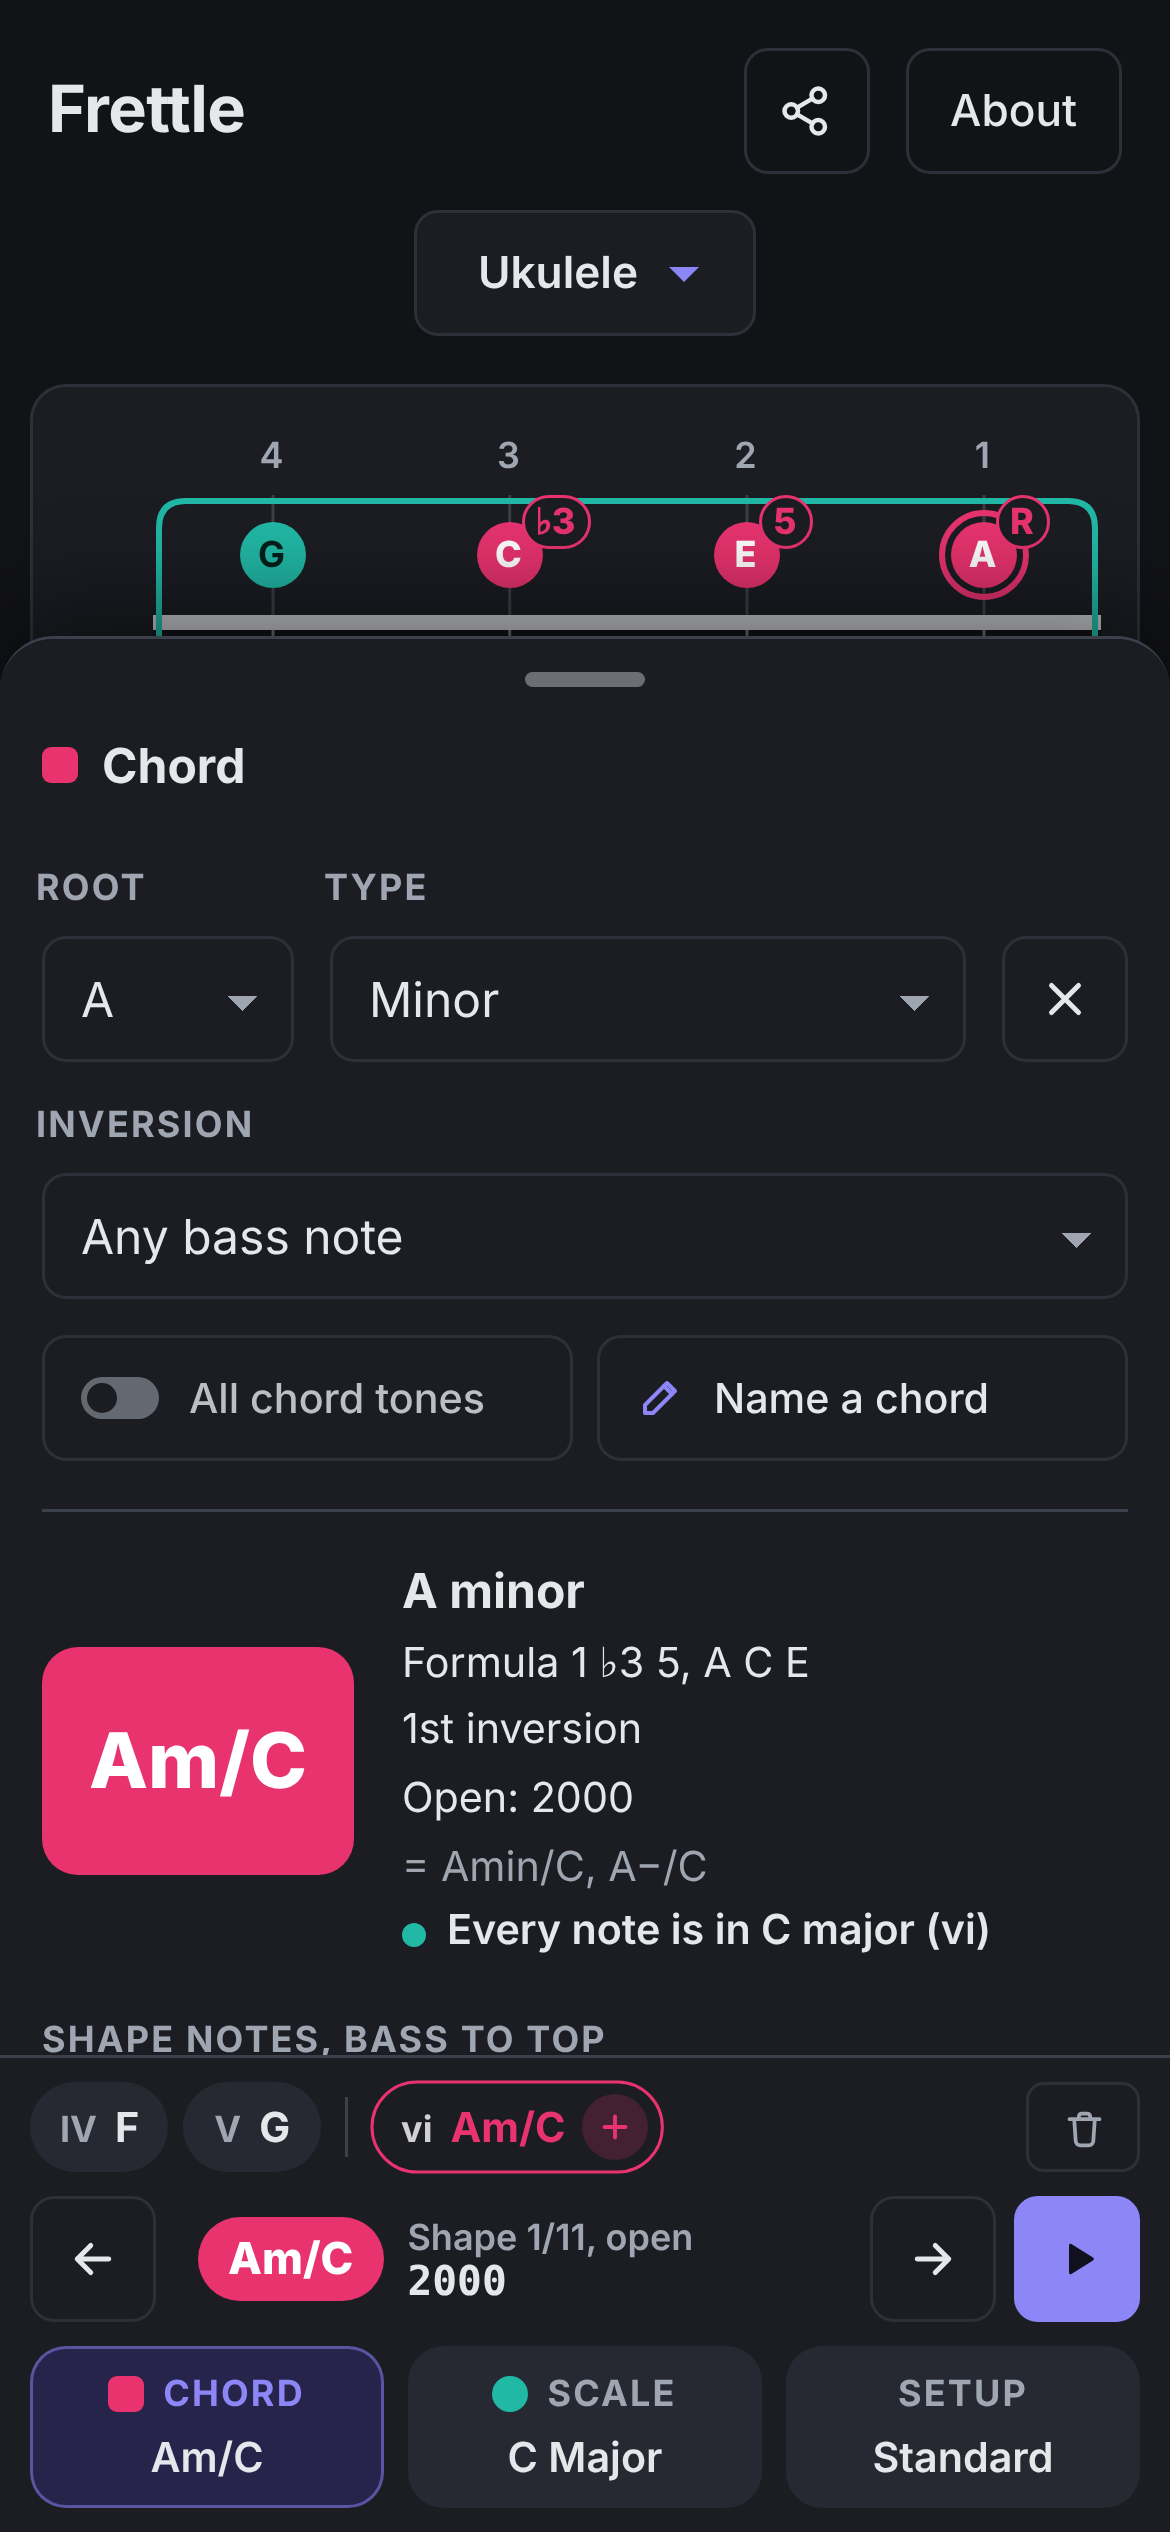
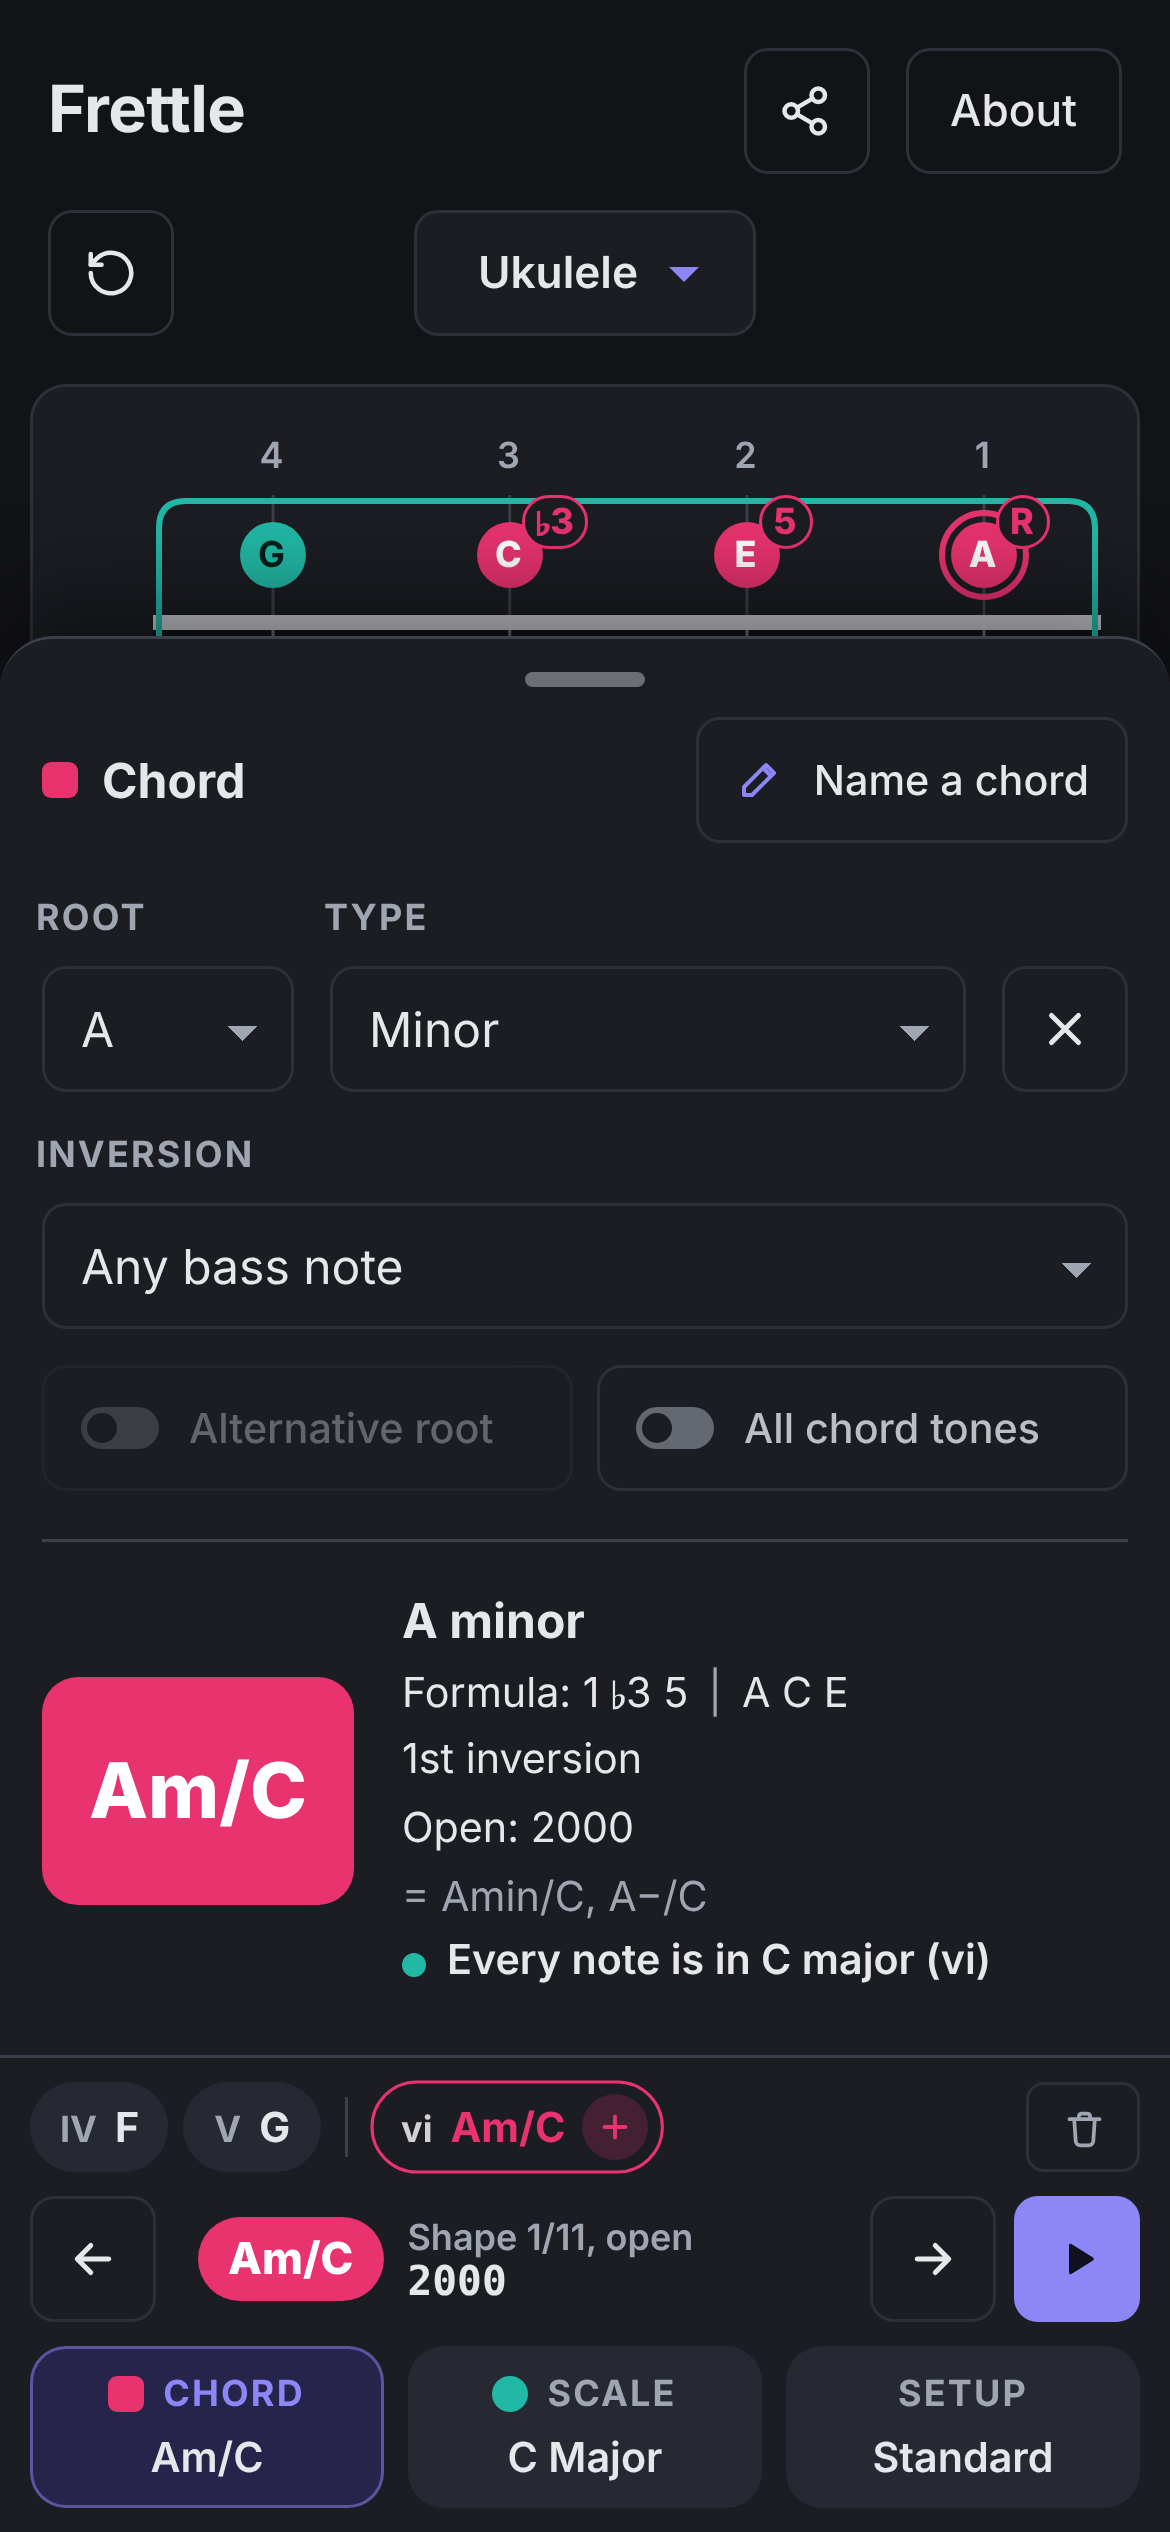
feat: name a chord next to sheet title on mobile

diff --git a/web/script.js b/web/script.js
@@ -4315,13 +4315,15 @@ function placeSettings() {
   if (els.instrumentPicker.parentElement !== instSlot) instSlot.appendChild(els.instrumentPicker);
   if (els.resetAll.parentElement !== instSlot) instSlot.appendChild(els.resetAll);   // (beside it: after it on wide screens, on the left on phones, see .reset-btn)
   // Chord and scale switches: at the end of the panel's title row on wide screens,
-  // under the menus on phones. Play the scale: before Deselect on wide
+  // under the menus on phones (Name a chord there at the end of the title
+  // row, a button, not a switch). Play the scale: before Deselect on wide
   // screens (as Strum is for chords), on the Notes line on phones.
   const put = (el, parent, before = null) => { if (el.parentElement !== parent || el.nextElementSibling !== before) parent.insertBefore(el, before); };
   // The phone dock's chord list and shape bar: in the quick bar under the
   // neck on wide screens, before the groups' bar (which only exists there)
   if (wide) {
     put(els.chordSwitches, els.chordHead);
+    put(els.namerOpen, els.chordSwitches);
     put(els.scaleSwitches, els.scaleHead);
     put(els.scalePlay, els.scaleBar, els.scaleClear);
     put(els.dockRecent, els.quickInner, els.quickGroupBar);
@@ -4329,6 +4331,8 @@ function placeSettings() {
     put(els.namer, els.neckPanel);   // Name a chord: in the quick bar's place
   } else {
     put(els.chordSwitches, els.chordBar, els.chordStrum);
+    put(els.namerOpen, els.chordHead);
+    els.namerOpen.classList.remove('whole');   // (out of the switches' grid, see fitSwitches)
     put(els.scaleSwitches, els.scaleBar, els.scaleClear);
     put(els.scalePlay, els.notesLine);
     put(els.dockRecent, els.dockBar, els.dockTabs);

diff --git a/web/styles.css b/web/styles.css
@@ -522,11 +522,11 @@ body.naming .reset-btn { display: none; }   /* (not while naming a chord) */
 .scale-bar .field.scale-type { order: 2; }
 .scale-bar .deselect { order: 3; }
 .switch-row { order: 4; flex: 1 0 100%; display: grid; grid-template-columns: 1fr 1fr; gap: var(--sp-2); }
-.chord-bar .switch-row { grid-template-columns: 1fr 1fr; }   /* phones: All chord tones and Name a chord, side by side */
+.chord-bar .switch-row { grid-template-columns: 1fr 1fr; }   /* phones: Alternative root and All chord tones, side by side (Name a chord: on the title row) */
 @media (max-width: 359px) { .chord-bar .switch-row { grid-template-columns: 1fr; } }
 .pill-toggle.namer-open { color: var(--text); }   /* (a button, not a switch: never dimmed like one that is off) */
 .namer-open .ico { flex: none; width: 16px; height: 16px; color: var(--accent); }
-.switch-row .pill-toggle { justify-content: flex-start; gap: 10px; padding: 0 12px; font-size: var(--fs-sm); white-space: nowrap; }
+.switch-row .pill-toggle, .panel-head > .namer-open { justify-content: flex-start; gap: 10px; padding: 0 12px; font-size: var(--fs-sm); white-space: nowrap; }
 
 /* Buttons that open a picker popup, styled as menus */
 .select-btn {
